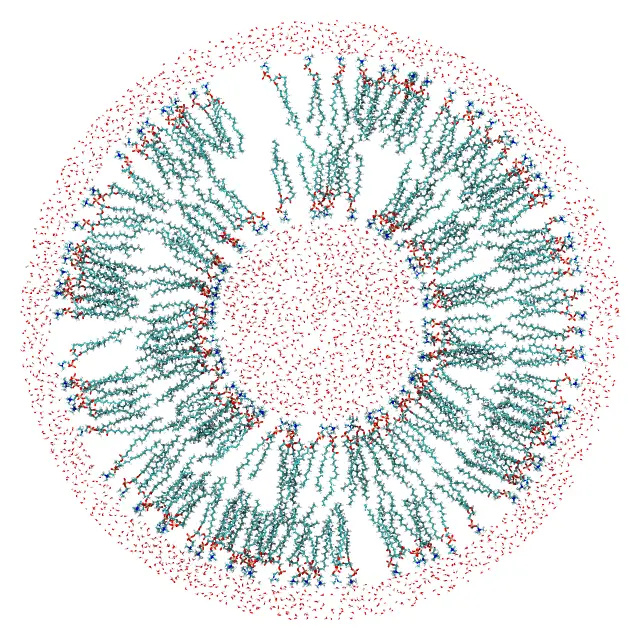
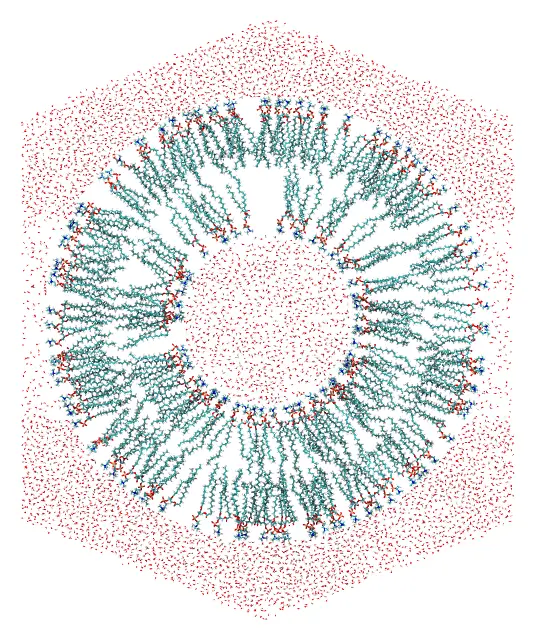
Nanoliposome tutorial: images and timings with the setup fix
Re-rendered the small (packed and check) and large nanoliposome images from
packings with the initial-approximation fix of octahedral-frame (ba8b077),
and updated the packing times, measured with 14 threads, one run at a time.

Claude-Session: https://claude.ai/code/session_01CXddAw4T6Ean6ekQ8DQaFR

diff --git a/docs/src/tutorials/nanoliposome.md b/docs/src/tutorials/nanoliposome.md
@@ -206,8 +206,8 @@ Run it with:
 packmol small.inp
 ```
 
-The packed system is written to `small.pdb`, in about 10 minutes with 8 threads.
-The larger nanoliposome (`packmol large.inp`) takes about 45 minutes.
+The packed system is written to `small.pdb`, in about 15 minutes with 14 threads.
+The larger nanoliposome (`packmol large.inp`) takes about 1 hour and 45 minutes.
 
 ## Julia
 
